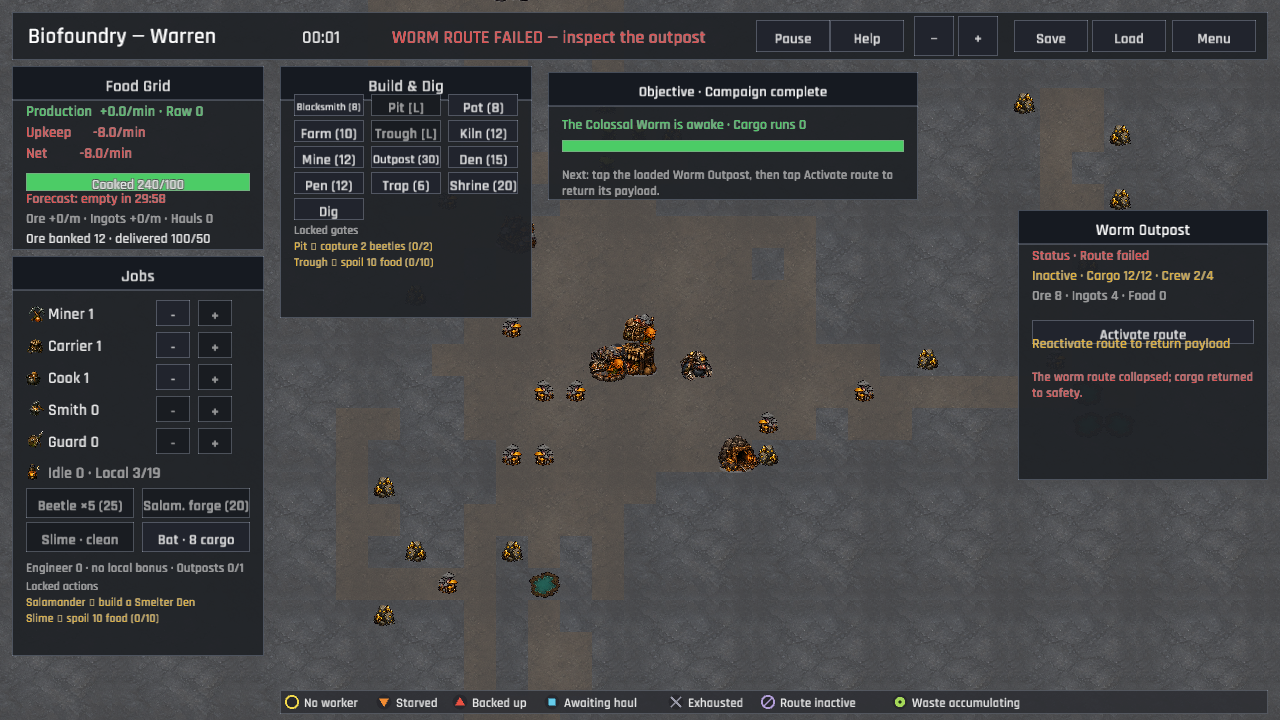
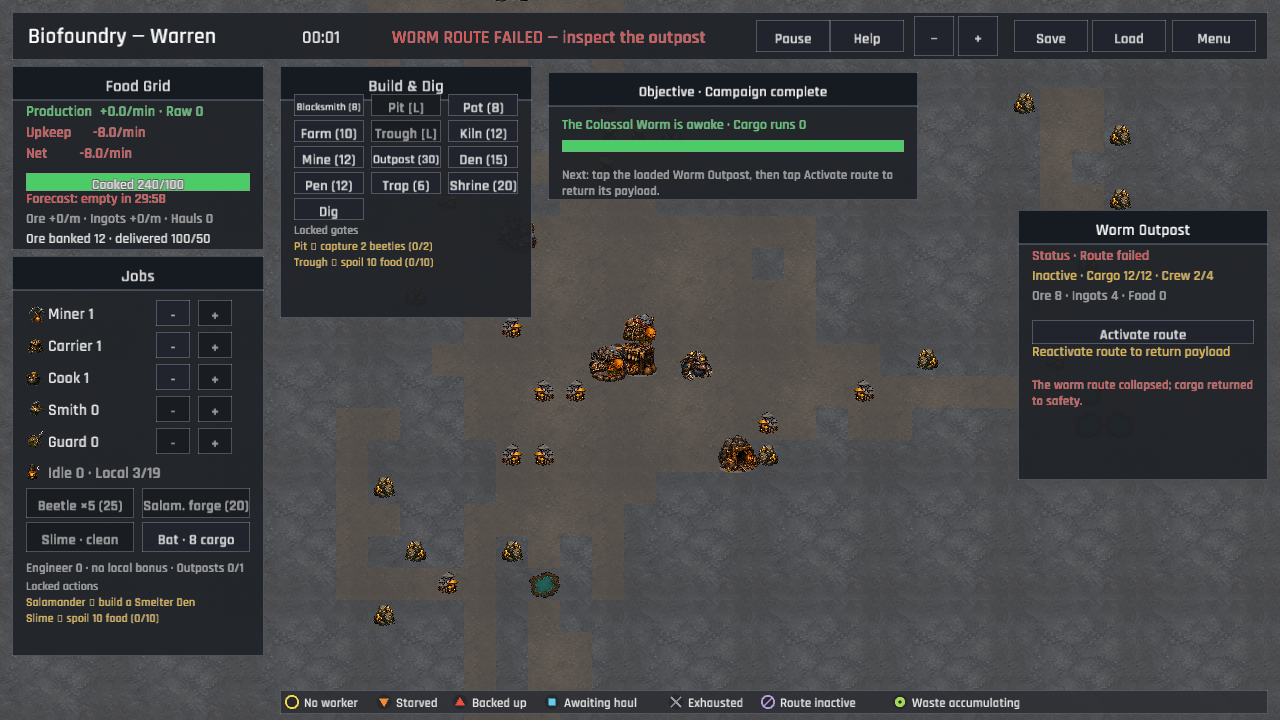
The outpost leaves room for its recovery note (outpost inspection spacing)
The route recovery and empty-payload notes were drawn immediately after their action buttons, leaving their baselines too close to the lower borders in the published inspection card. Add a full text-line gap after each button so the inactive-route and empty-route guidance reads as deliberate copy without changing the route state or panel layout.

Verified with cargo fmt -- --check, cargo test --all-targets, cargo clippy --all-targets --all-features -- -D warnings, .\\publish.ps1, and refreshed docs/verification/ui_endless_empty.png plus docs/verification/ui_endless_failure.png.

Changed region(s): [[0.7812, 0.4583, 1.0, 0.5806]]

diff --git a/src/ui/hud/inspect.rs b/src/ui/hud/inspect.rs
@@ -496,7 +496,9 @@ pub(super) fn draw_inspect_panel(
                 ) {
                     actions.push(UiAction::ActivateOutpost(pos));
                 }
-                y += 28.0;
+                // Leave a full text-line gap before recovery copy so the
+                // baseline cannot crowd the button's lower border.
+                y += 36.0;
                 if !active && (cargo > 0 || crew > 0) {
                     line("Reactivate route to return payload", dark::WARNING, &mut y);
                 }
@@ -520,7 +522,7 @@ pub(super) fn draw_inspect_panel(
                     ) {
                         actions.push(UiAction::TransitToOutpost(pos));
                     }
-                    y += 28.0;
+                    y += 36.0;
                     if cargo == 0 && crew == 0 && !loadable_payload {
                         line(
                             "No cargo or crew ready at the warren",
